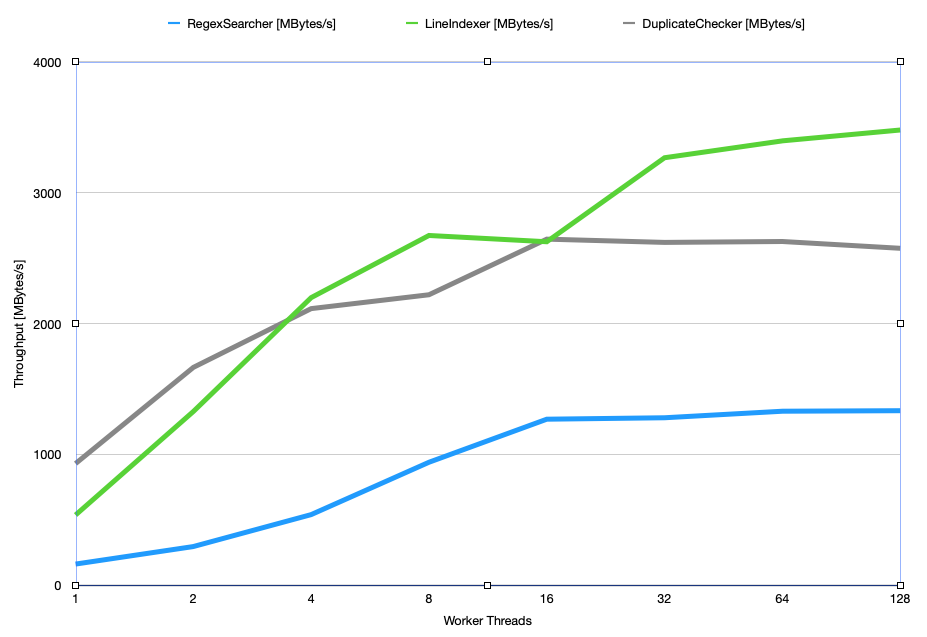
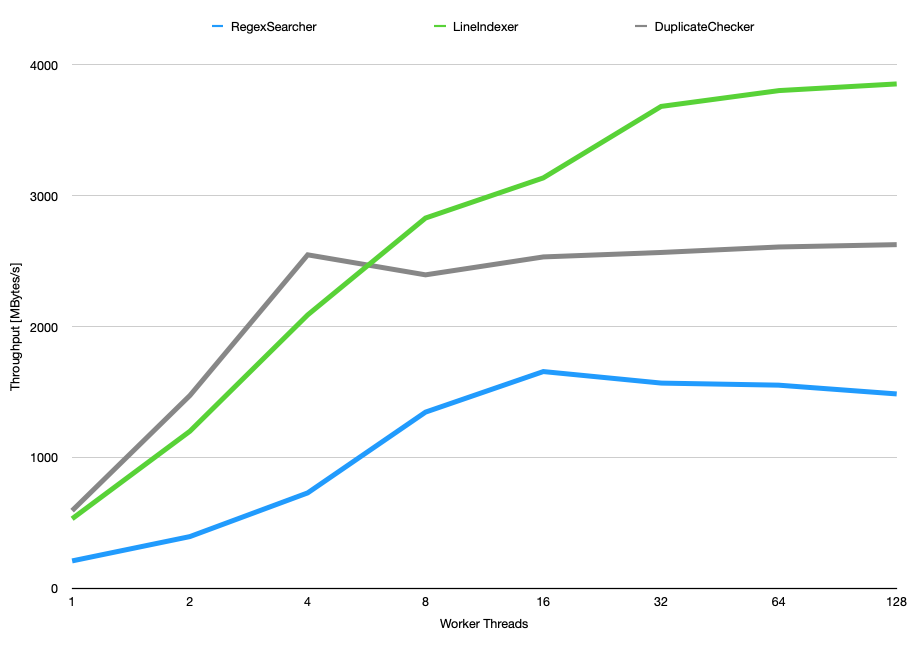
update readme

diff --git a/README.md b/README.md
@@ -149,47 +149,47 @@ The performance benchmark consists of running the included benchmarking apps ove
 Here is the search benchmark console output for a 5 GiByte search.  On the test system, performance peaked around 16 worker threads, and the peak is roughly eight times faster (8x) than the single threaded baseline.
 
 ```console
-$ dotnet SearchApp/bin/Release/netcoreapp3.1/SearchApp.dll benchmark ${TMPDIR}/enwik9
-..................................
+$ dotnet SearchApp/bin/Release/net6.0/SearchApp.dll benchmark ${TMPDIR}/enwik9
+........................
 maxWorkers=1, chunkKiBytes=512, maxThread=32767
    105160 matches found
-   searched 5000000000 bytes in 31.0263856 seconds
--> 161.1531573307076 MBytes/s
-...................
+   searched 5000000000 bytes in 24.0289207 seconds
+-> 208.0825877460239 MBytes/s
+..............
 maxWorkers=2, chunkKiBytes=512, maxThread=32767
    105160 matches found
-   searched 5000000000 bytes in 16.8778632 seconds
--> 296.24603190290105 MBytes/s
+   searched 5000000000 bytes in 12.692795 seconds
+-> 393.92426963485974 MBytes/s
 .........
 maxWorkers=4, chunkKiBytes=512, maxThread=32767
    105160 matches found
-   searched 5000000000 bytes in 9.1642743 seconds
--> 545.5969383194914 MBytes/s
-.........
+   searched 5000000000 bytes in 6.8668367 seconds
+-> 728.1373095707955 MBytes/s
+....
 maxWorkers=8, chunkKiBytes=512, maxThread=32767
    105160 matches found
-   searched 5000000000 bytes in 5.2054124 seconds
--> 960.5386885388754 MBytes/s
+   searched 5000000000 bytes in 3.7174496 seconds
+-> 1345.0081475213544 MBytes/s
 ....
 maxWorkers=16, chunkKiBytes=512, maxThread=32767
    105160 matches found
-   searched 5000000000 bytes in 3.7841506 seconds
--> 1321.3004788974308 MBytes/s
+   searched 5000000000 bytes in 3.0211296 seconds
+-> 1655.0100995336313 MBytes/s
 ....
 maxWorkers=32, chunkKiBytes=512, maxThread=32767
    105160 matches found
-   searched 5000000000 bytes in 3.714317 seconds
--> 1346.1425074919562 MBytes/s
+   searched 5000000000 bytes in 3.191699 seconds
+-> 1566.5637643148682 MBytes/s
 ....
 maxWorkers=64, chunkKiBytes=512, maxThread=32767
    105160 matches found
-   searched 5000000000 bytes in 3.7860814 seconds
--> 1320.6266510804548 MBytes/s
+   searched 5000000000 bytes in 3.2240221 seconds
+-> 1550.8578554718963 MBytes/s
 ....
 maxWorkers=128, chunkKiBytes=512, maxThread=32767
    105160 matches found
-   searched 5000000000 bytes in 3.8072122 seconds
--> 1313.296905278881 MBytes/s
+   searched 5000000000 bytes in 3.3693127 seconds
+-> 1483.982178323787 MBytes/s
 ```
 
 
